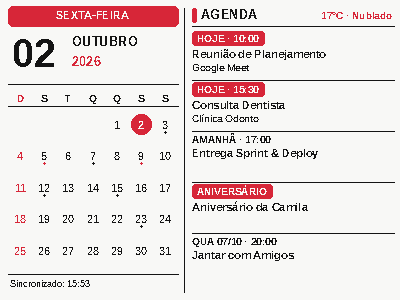
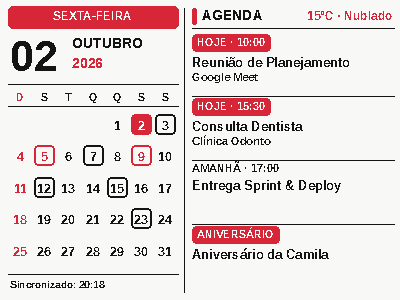
style: increase font sizes and boldness, add event boxes in month grid, optimize for 4 events

diff --git a/src/ui/components/event_list.py b/src/ui/components/event_list.py
@@ -17,24 +17,24 @@ def render_event_list(
     events: List[CalendarEvent],
     weather: Optional[WeatherInfo],
     rect: Tuple[int, int, int, int],
-    max_events: int = 5,
+    max_events: int = 4,
 ):
-    """Renders the agenda and upcoming appointments list."""
+    """Renders the agenda and upcoming appointments list with large, bold typography."""
     x0, y0, x1, y1 = rect
 
-    font_title = get_font("bold", 13)
-    font_weather = get_font("bold", 10)
-    font_badge = get_font("bold", 10)
-    font_item_title = get_font("bold", 11)
-    font_item_sub = get_font("regular", 10)
+    font_title = get_font("bold", 14)
+    font_weather = get_font("bold", 12)
+    font_badge = get_font("bold", 11)
+    font_item_title = get_font("bold", 13)
+    font_item_sub = get_font("bold", 11)
 
     # 1. Section Header: "AGENDA" + Red Pill Accent + Weather
     header_y = y0 + 1
-    # Small red vertical pill
+    # Red vertical accent bar
     canvas.draw_rounded_rectangle(
-        (x0, header_y + 1, x0 + 4, header_y + 15), radius=2, fill="red"
+        (x0, header_y + 1, x0 + 4, header_y + 17), radius=2, fill="red"
     )
-    canvas.draw_text((x0 + 9, header_y), "AGENDA", font=font_title, color="black")
+    canvas.draw_text((x0 + 10, header_y), "AGENDA", font=font_title, color="black")
 
     # Weather info on top-right of agenda header
     if weather:
@@ -42,7 +42,7 @@ def render_event_list(
         w_text = f"{int(round(weather.temperature))}°C · {w_desc}"
         bbox_w = font_weather.getbbox(w_text)
         w_width = bbox_w[2] - bbox_w[0]
-        if w_width < 140:
+        if w_width < 145:
             canvas.draw_text(
                 (x1 - w_width - 2, header_y + 2),
                 w_text,
@@ -51,7 +51,7 @@ def render_event_list(
             )
 
     # Divider line under agenda header
-    divider_y = header_y + 19
+    divider_y = header_y + 21
     canvas.draw_line((x0, divider_y, x1, divider_y), color="black", width=1)
 
     # 2. Filter upcoming events (today and future)
@@ -62,30 +62,31 @@ def render_event_list(
     display_events = upcoming[:max_events]
 
     # 3. Render event items
-    start_y = divider_y + 5
+    start_y = divider_y + 6
     avail_height = (y1 - 4) - start_y
 
     if not display_events:
         # Empty state message
         empty_y = start_y + 40
-        font_empty = get_font("regular", 11)
-        font_empty_bold = get_font("bold", 12)
+        font_empty = get_font("bold", 13)
+        font_empty_sub = get_font("bold", 12)
         canvas.draw_text(
             (x0 + 10, empty_y),
             "Nenhum compromisso agendado",
-            font=font_empty_bold,
+            font=font_empty,
             color="black",
         )
         canvas.draw_text(
-            (x0 + 10, empty_y + 18),
+            (x0 + 10, empty_y + 20),
             "Aproveite o seu dia livre!",
-            font=font_empty,
+            font=font_empty_sub,
             color="red",
         )
         return
 
     n_events = len(display_events)
-    item_h = min(avail_height // n_events, 52)
+    # Optimized spacing for up to 4 events
+    item_h = min(avail_height // n_events, 65)
 
     for idx, ev in enumerate(display_events):
         item_y = start_y + idx * item_h
@@ -119,22 +120,22 @@ def render_event_list(
         if badge_bg:
             bbox_b = font_badge.getbbox(badge_text)
             bw = (bbox_b[2] - bbox_b[0]) + 10
-            bh = 14
+            bh = 17
             badge_rect = (x0, current_y, x0 + bw, current_y + bh)
-            canvas.draw_rounded_rectangle(badge_rect, radius=3, fill=badge_color)
+            canvas.draw_rounded_rectangle(badge_rect, radius=4, fill=badge_color)
             canvas.draw_text(
-                (x0 + 5, current_y + 1), badge_text, font=font_badge, color="white"
+                (x0 + 5, current_y + 2), badge_text, font=font_badge, color="white"
             )
-            current_y += bh + 3
+            current_y += bh + 4
         else:
             canvas.draw_text(
                 (x0, current_y), badge_text, font=font_badge, color=badge_color
             )
-            current_y += 14
+            current_y += 16
 
         # Title (clean emoji and truncate)
         clean_title = sanitize_text(ev.summary)
-        max_chars = 26
+        max_chars = 24
         if len(clean_title) > max_chars:
             clean_title = clean_title[: max_chars - 1].rstrip() + "…"
 
@@ -143,12 +144,12 @@ def render_event_list(
         )
 
         # Location if present and fits
-        if ev.location and item_h >= 46:
+        if ev.location and item_h >= 50:
             loc = sanitize_text(ev.location)
-            if len(loc) > 30:
-                loc = loc[:28].rstrip() + "…"
+            if len(loc) > 28:
+                loc = loc[:26].rstrip() + "…"
             canvas.draw_text(
-                (x0, current_y + 13), loc, font=font_item_sub, color="black"
+                (x0, current_y + 16), loc, font=font_item_sub, color="black"
             )
 
         # Separator line between items (except last item)

diff --git a/src/ui/components/month_grid.py b/src/ui/components/month_grid.py
@@ -1,8 +1,8 @@
-"""Monthly calendar grid component with day numbers, event dots, and 'today' highlight."""
+"""Monthly calendar grid component with day numbers, highlighted event boxes, and 'today' badge."""
 
 import calendar
 from datetime import date
-from typing import Dict, List, Set, Tuple
+from typing import Dict, List, Tuple
 from ..canvas import EPaperCanvas
 from ..fonts import get_font
 from ...calendar_provider.base import CalendarEvent
@@ -17,17 +17,16 @@ def render_month_grid(
     events: List[CalendarEvent],
     rect: Tuple[int, int, int, int],
 ):
-    """Renders the 7x5 or 7x6 month grid."""
+    """Renders the 7x5 or 7x6 month grid with outlined event boxes and solid today highlight."""
     x0, y0, x1, y1 = rect
     grid_w = x1 - x0
     col_w = grid_w / 7.0
 
-    font_header = get_font("bold", 10)
-    font_day = get_font("regular", 11)
-    font_day_bold = get_font("bold", 11)
+    font_header = get_font("bold", 11)
+    font_day_bold = get_font("bold", 12)
 
     # 1. Day headers (D S T Q Q S S)
-    header_y = y0 + 2
+    header_y = y0 + 1
     for col_idx, day_name in enumerate(DAY_NAMES_PT):
         col_cx = x0 + int(col_idx * col_w + col_w / 2.0)
         # Sunday is red, others are black
@@ -39,7 +38,7 @@ def render_month_grid(
         )
 
     # Thin line under day names
-    line_y = header_y + 14
+    line_y = header_y + 15
     canvas.draw_line((x0, line_y, x1, line_y), color="black", width=1)
 
     # 2. Prepare event map for current month
@@ -82,43 +81,38 @@ def render_month_grid(
             col_cx = int(x0 + col_idx * col_w + col_w / 2.0)
             is_today = (day_num == current_date.day)
             is_sunday = (col_idx == 0)
+            has_event = day_num in month_events
+            is_birthday = has_event and month_events[day_num]["has_birthday"]
 
             day_text = str(day_num)
-            use_font = font_day_bold if is_today else font_day
-            bbox = use_font.getbbox(day_text)
+            bbox = font_day_bold.getbbox(day_text)
             tw = bbox[2] - bbox[0]
             th = bbox[3] - bbox[1]
 
+            # Box dimension: 20x20 px centered in cell
+            box_half = 10
+            box_rect = (
+                col_cx - box_half,
+                cell_cy - box_half - 1,
+                col_cx + box_half,
+                cell_cy + box_half - 1,
+            )
+
+            text_pos = (col_cx - tw // 2, cell_cy - th // 2 - 2)
+
             if is_today:
-                # Solid red circle highlight
-                radius = 10
-                canvas.draw_circle(
-                    (col_cx, cell_cy - 1), radius=radius, fill="red"
+                # 1. TODAY: Solid RED rounded box with white text
+                canvas.draw_rounded_rectangle(box_rect, radius=4, fill="red")
+                canvas.draw_text(text_pos, day_text, font=font_day_bold, color="white")
+            elif has_event:
+                # 2. EVENT DAY: Outlined box around the number
+                outline_color = "red" if (is_birthday or is_sunday) else "black"
+                text_color = "red" if (is_birthday or is_sunday) else "black"
+                canvas.draw_rounded_rectangle(
+                    box_rect, radius=4, outline=outline_color, width=2
                 )
-                # Inverted white day number
-                canvas.draw_text(
-                    (col_cx - tw // 2, cell_cy - th // 2 - 2),
-                    day_text,
-                    font=use_font,
-                    color="white",
-                )
+                canvas.draw_text(text_pos, day_text, font=font_day_bold, color=text_color)
             else:
-                color = "red" if is_sunday else "black"
-                canvas.draw_text(
-                    (col_cx - tw // 2, cell_cy - th // 2 - 2),
-                    day_text,
-                    font=use_font,
-                    color=color,
-                )
-
-                # Event dot
-                if day_num in month_events:
-                    dot_color = (
-                        "red" if month_events[day_num]["has_birthday"] else "black"
-                    )
-                    dot_y = cell_cy + radius_or_offset(th)
-                    canvas.draw_circle((col_cx, dot_y), radius=1, fill=dot_color)
-
-
-def radius_or_offset(text_height: int) -> int:
-    return text_height // 2 + 3
+                # 3. NORMAL DAY: Clean bold number
+                text_color = "red" if is_sunday else "black"
+                canvas.draw_text(text_pos, day_text, font=font_day_bold, color=text_color)

diff --git a/src/ui/components/header.py b/src/ui/components/header.py
@@ -32,16 +32,16 @@ MONTHS_PT = [
 
 
 def render_header(canvas: EPaperCanvas, current_date: date, rect: Tuple[int, int, int, int]):
-    """Renders the date block on the top-left section."""
+    """Renders the date block on the top-left section with large, bold typography."""
     x0, y0, x1, y1 = rect
 
     # 1. Day of week badge (Capsule in RED with white bold text)
     weekday_str = WEEKDAYS_PT[current_date.weekday()]
-    badge_h = 20
+    badge_h = 22
     badge_rect = (x0, y0, x1, y0 + badge_h)
     canvas.draw_rounded_rectangle(badge_rect, radius=5, fill="red")
 
-    font_badge = get_font("bold", 11)
+    font_badge = get_font("bold", 12)
     bbox = font_badge.getbbox(weekday_str)
     text_w = bbox[2] - bbox[0]
     badge_w = x1 - x0
@@ -50,16 +50,16 @@ def render_header(canvas: EPaperCanvas, current_date: date, rect: Tuple[int, int
 
     # 2. Large Day number
     day_str = f"{current_date.day:02d}"
-    font_day = get_font("bold", 40)
-    day_y = y0 + badge_h + 4
-    canvas.draw_text((x0 + 4, day_y), day_str, font=font_day, color="black")
+    font_day = get_font("bold", 44)
+    day_y = y0 + badge_h + 3
+    canvas.draw_text((x0 + 2, day_y), day_str, font=font_day, color="black")
 
     # 3. Month and Year beside day number
     month_str = MONTHS_PT[current_date.month - 1]
     year_str = str(current_date.year)
 
-    font_month = get_font("bold", 13)
-    font_year = get_font("bold", 13)
+    font_month = get_font("bold", 14)
+    font_year = get_font("bold", 14)
 
     month_x = x0 + 64
     canvas.draw_text((month_x, day_y + 4), month_str, font=font_month, color="black")

diff --git a/src/ui/components/status_bar.py b/src/ui/components/status_bar.py
@@ -11,9 +11,9 @@ def render_status_bar(
     last_update: datetime,
     rect: Tuple[int, int, int, int],
 ):
-    """Renders small status info at the bottom of the left column."""
+    """Renders small status info at the bottom of the left column with bold font."""
     x0, y0, x1, y1 = rect
-    font = get_font("regular", 9)
+    font = get_font("bold", 10)
 
     # Top thin line
     canvas.draw_line((x0, y0, x1, y0), color="black", width=1)

diff --git a/src/config.py b/src/config.py
@@ -109,7 +109,7 @@ class Config:
 
     @property
     def max_upcoming_events(self) -> int:
-        return self._data.get("calendar", {}).get("max_upcoming_events", 5)
+        return self._data.get("calendar", {}).get("max_upcoming_events", 4)
 
     @property
     def lookahead_days(self) -> int:
